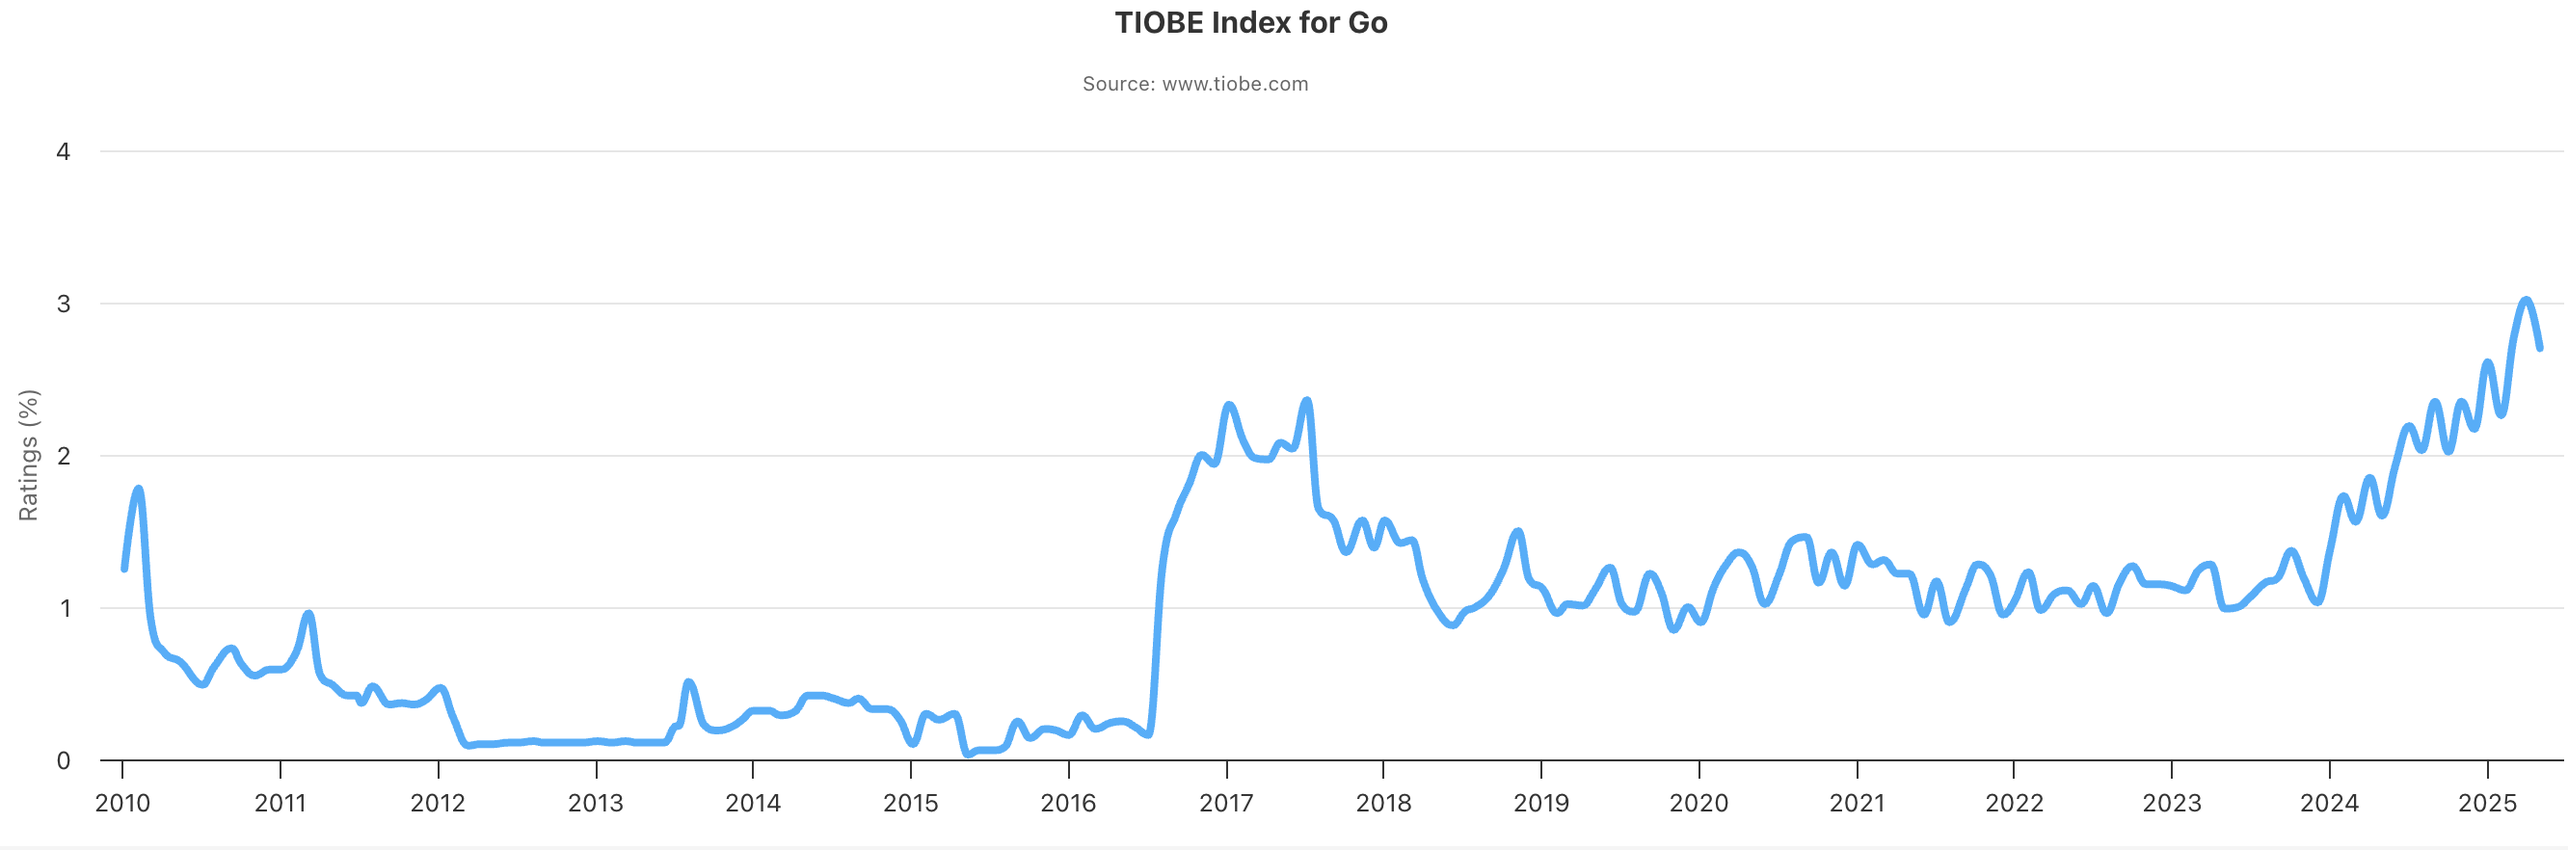
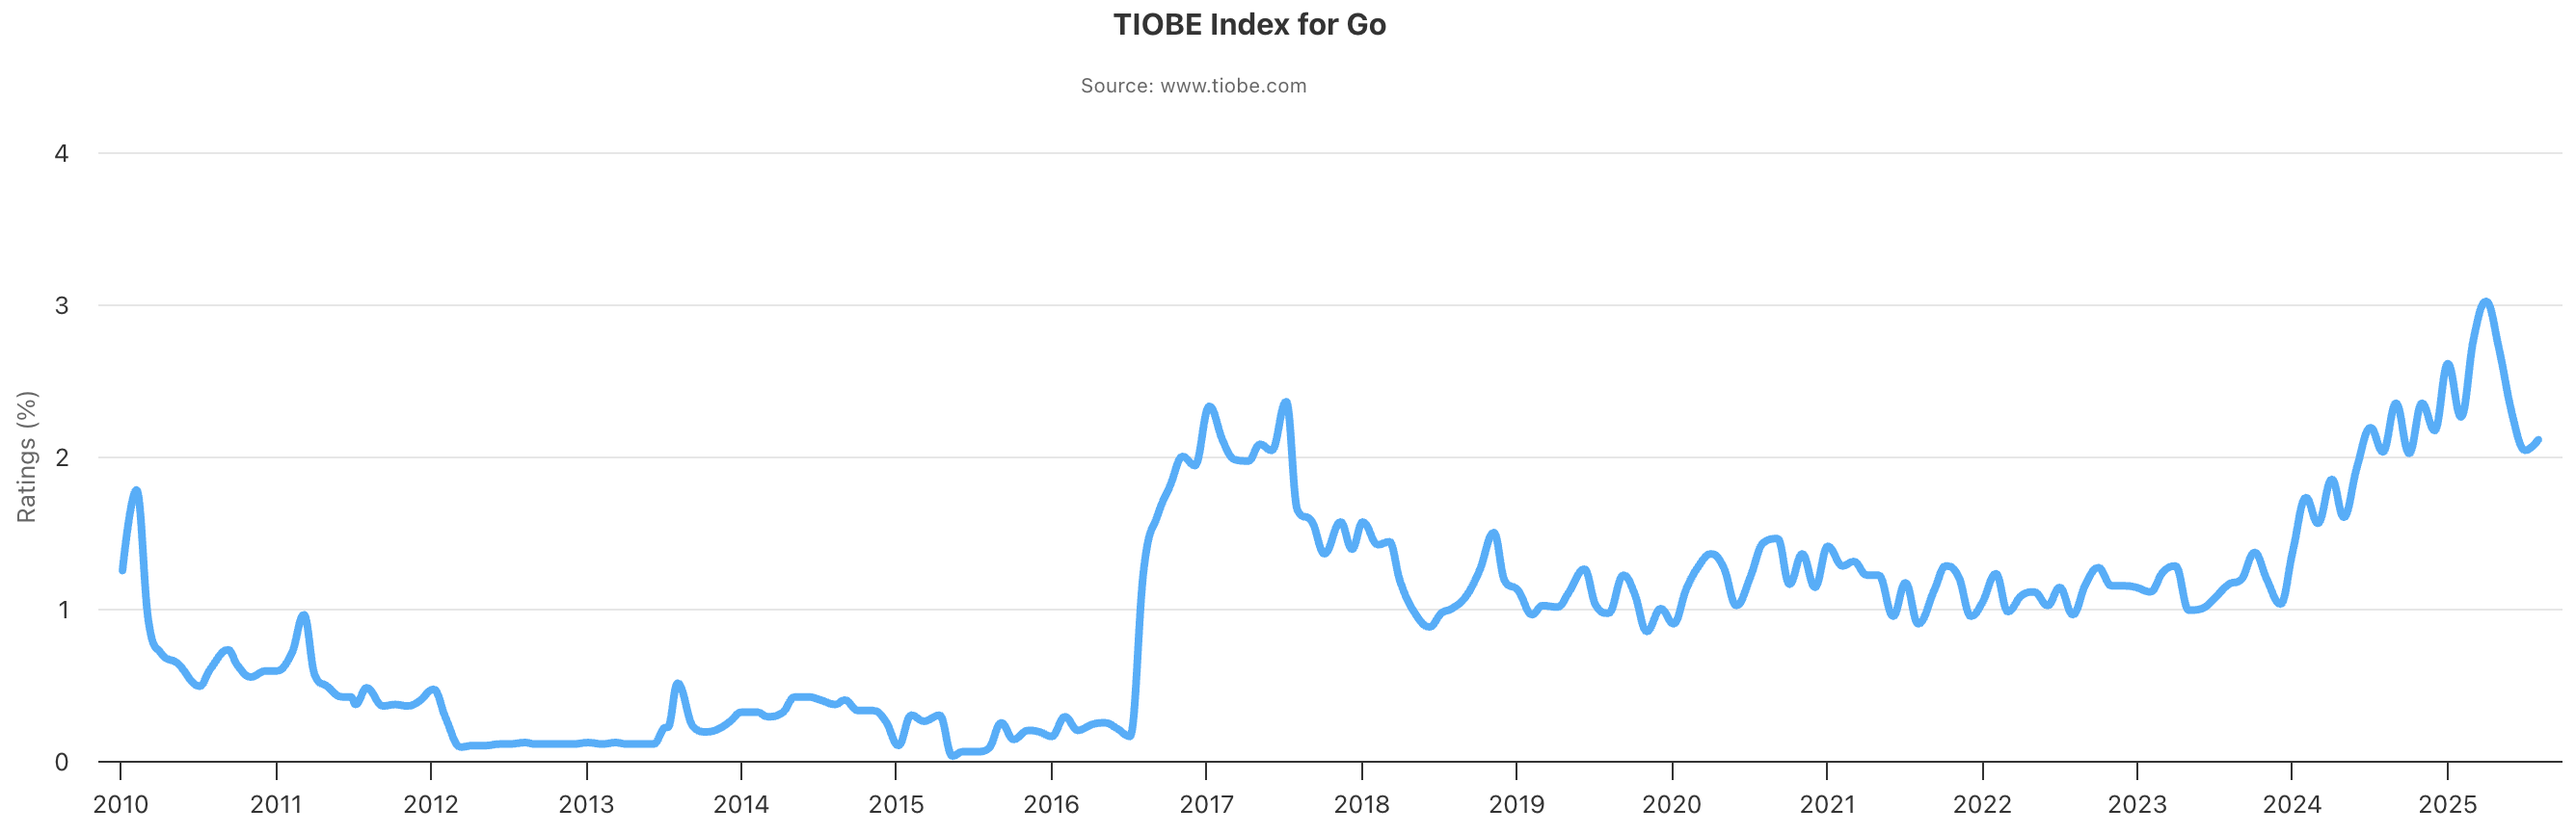
update go tiobe index

diff --git a/README.md b/README.md
@@ -19,11 +19,19 @@
 
 **Go语言最新排名**：[TIOBE](https://www.tiobe.com/tiobe-index/go/)
 
-![image-20231112185924824](img/rate.png)
+<div align="center">
+   <img src="img/tiobe202509.png" width="500"  alt="" />
+</div>
+
+<div align="center">
+   <img src="img/rate.png" width="500"  alt="" />
+</div>
 
 **AI时代Go语言学习路线：**[博客链接](https://mp.weixin.qq.com/s/5x24Nhbxtjkcjv7xuJWPng)
 
-![loading-ag-2256](img/way.png)
+<div align="center">
+   <img src="img/way.png" width="800"  alt="" />
+</div>
 
 相关学习资源：
 
